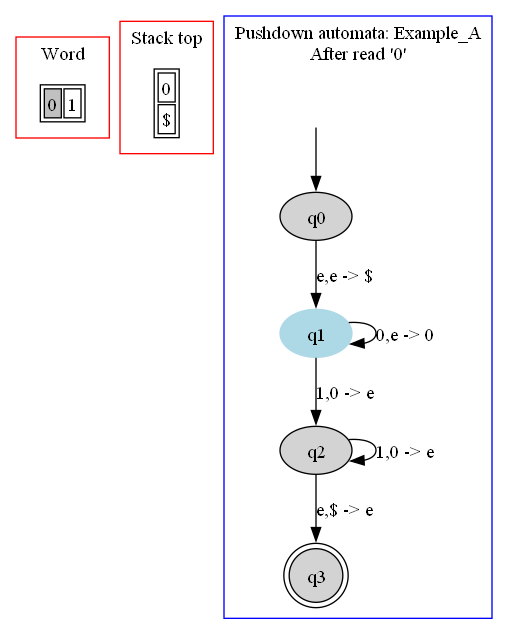
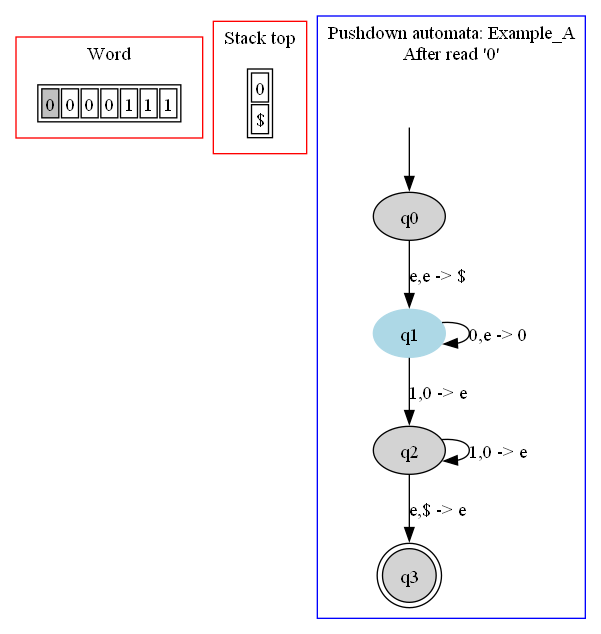
Falta fazer a parte não determinística

Changed region(s): [[0.0, 0.0, 0.9744, 0.989]]

diff --git a/PA/automataexecution.cpp b/PA/automataexecution.cpp
@@ -49,7 +49,7 @@ bool AutomataExecution::process_word(const std::string &word)
     this->word = word;
     this->current_state = this->automataInstance.start_state;
 
-    draw_automata_considering_input_1p("Before to read any input");
+    draw_automata_considering_input_1p("Before to read any input", 0);
 
     int wordLen =  word.length();
     //std::cout << "wordLen: " << wordLen << std::endl;
@@ -91,12 +91,20 @@ bool AutomataExecution::process_word(const std::string &word)
                 this->automataInstance.vectorOfAcceptanceStateIds.end(),
                 this->current_state
             );
-            if (it != this->automataInstance.vectorOfAcceptanceStateIds.end() &&
-                    this->char_stack.length() == 0 &&
-                    (this->id_of_processed_char_input+1 > this->word.length()))
+            if (
+                it != this->automataInstance.vectorOfAcceptanceStateIds.end() &&
+                this->char_stack.length() == 0 &&
+                (this->id_of_processed_char_input == this->word.length()-1)
+            )
+            {
+                draw_automata_considering_input_1p("The word was accepted", 1);
                 return true; //word foi aceita
+            }
             else
+            {
+                draw_automata_considering_input_1p("The word was rejected", 2);
                 return false; //word NÃO foi aceita
+            }
         }
         else
         {
@@ -106,12 +114,25 @@ bool AutomataExecution::process_word(const std::string &word)
 
             if (possibleTransitions.size() == 1)
             {
+                chosen = possibleTransitions[0];
+
+                std::cout << "### A single one transition is possible. " << std::endl;
+                std::cout << "Going from state "+std::to_string(chosen.origin_state)+
+                             " to "+std::to_string(chosen.destiny_state) << std::endl;
+                std::cout << "The selected transition is: ";
+                std::cout << std::string(1, chosen.transition.inputSymbol)+
+                             " , "+std::string(1, chosen.transition.topOfStackSymbolToBeReplaced)+
+                             " -> "+std::string(1, chosen.transition.topOfStackSymbolToReplace)+
+                          "\n" << std::endl << std::endl;
+
+                std::cout << std::endl << std::endl;
+
                 //std::cout << "PB " << std::endl;
                 //só tem uma transição a fazer
-                chosen = possibleTransitions[0];
             }
             else
             {
+                std::cout << "### More than one transition is possible. " << std::endl;
                 //std::cout << "PC " << std::endl;
                 //Existe mais do que uma transição
                 //Perguntar ao usuario qual usar
@@ -188,13 +209,13 @@ bool AutomataExecution::process_word(const std::string &word)
 
             //std::cout << "PD " << std::endl;
 
-            draw_automata_considering_input_1p(msg);
+            draw_automata_considering_input_1p(msg, 0);
         }
     }
 
-    draw_automata_considering_input_1p("End of processing");
+    //draw_automata_considering_input_1p("End of processing");
 
-    return true;
+    //return true;
 }
 
 bool AutomataExecution::test1_remove_later(const std::string &word)
@@ -204,7 +225,7 @@ bool AutomataExecution::test1_remove_later(const std::string &word)
     this->current_state = 1;
     this->char_stack = "000";
 
-    draw_automata_considering_input_1p("After read 0");
+    draw_automata_considering_input_1p("After read 0", 0);
 
     return true;
 }
@@ -216,25 +237,16 @@ void AutomataExecution::draw_automata_0p()
     draw_automata_2p(local_url, name_of_image);
 }
 
-void AutomataExecution::draw_automata_considering_input_1p(const std::string& msg)
+
+//0: ainda processando
+//1: aceito
+//2: rejeitado
+void AutomataExecution::draw_automata_considering_input_1p(const std::string& msg, int write_acceptance_status)
 {
     std::string local_url = "C:/Users/Daniel/Documents/GitHub/pushdown_automata/PA/images";
     std::string name_of_image =
             this->automataInstance.nameOfAutomata+"_"+
             std::to_string(this->internal_increment+1)+".png";
-
-    int write_acceptance_status = 0;
-
-    if (this->id_of_processed_char_input == this->word.size())
-    {
-        if (this->char_stack.length() == 0)
-            write_acceptance_status = 1;
-        else
-            write_acceptance_status = 2;
-    }
-    else {
-        write_acceptance_status = 0;
-    }
 
     std::string content = AutomataExecution::produce_content_of_draw_considering_input
     (

diff --git a/PA/main.cpp b/PA/main.cpp
@@ -11,9 +11,10 @@ int main()
     AutomataExecution automataExecution(PushdownAutomataSamples::get_structure_of_sample_1());
     automataExecution.draw_automata_0p();
 
-    automataExecution.process_word("01");
+    //automataExecution.process_word("01");
     //automataExecution.process_word("000111");
-    //automataExecution.test1_remove_later("00001111");
+    //automataExecution.process_word("0001111");
+    automataExecution.process_word("0000111");
 
     return 0;
 }

diff --git a/PA/automataexecution.h b/PA/automataexecution.h
@@ -11,7 +11,7 @@ public:
 
     void draw_automata_0p();
 
-    void draw_automata_considering_input_1p(const std::string& msg);
+    void draw_automata_considering_input_1p(const std::string& msg, int write_acceptance_status);
 
     bool process_word(const std::string& word);
 
